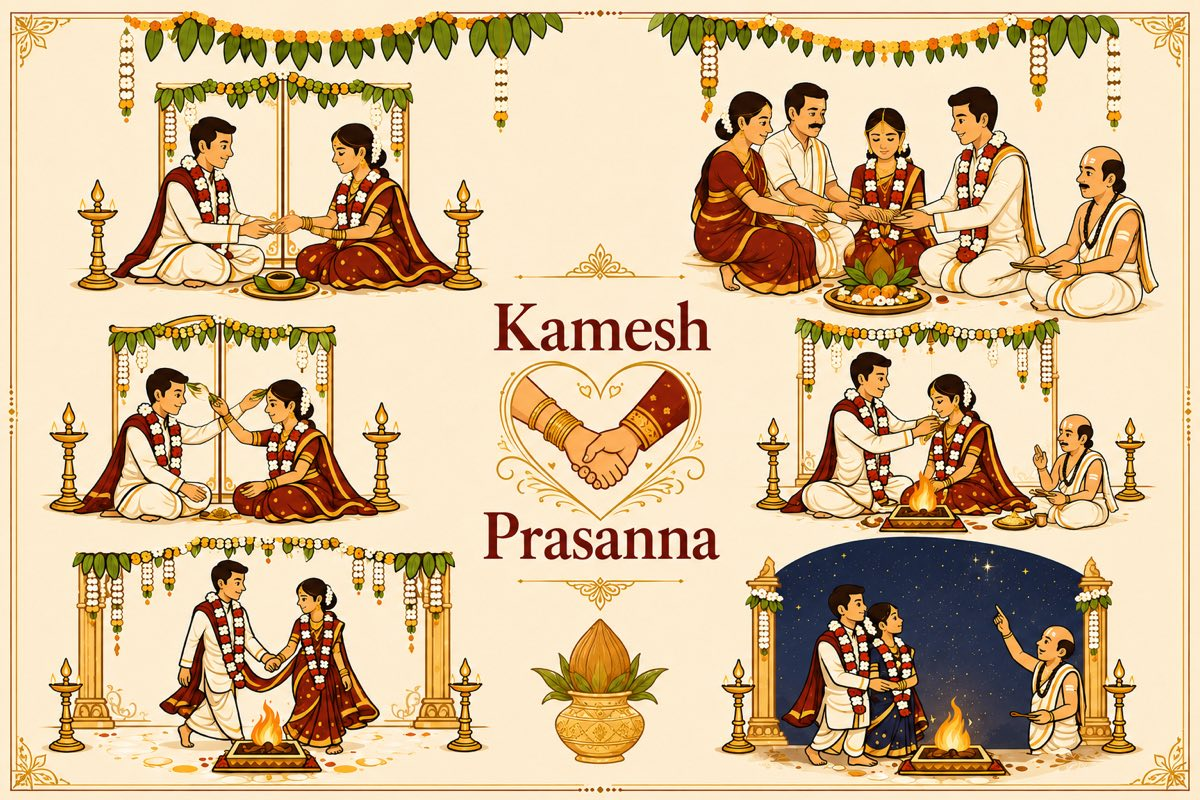
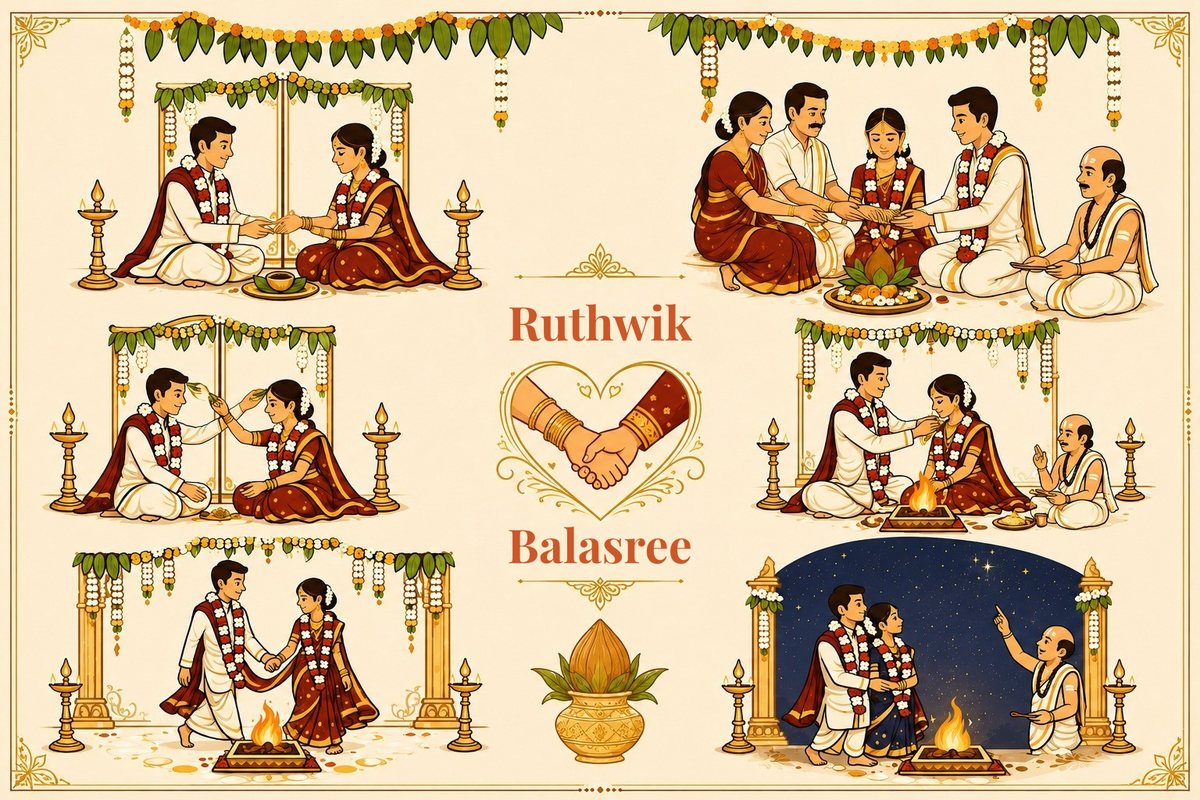
Update site URLs to point to the new Vercel deployment
- Changed siteUrl in data.js and data.json to reflect the new Vercel URL.
- Updated canonical links and Open Graph/Twitter image URLs in index.html to the new domain.
- Modified sitemap and robots.txt to use the new site URL for better SEO and indexing.
- Replaced wedding image with an updated version in og-wedding.jpg.

diff --git a/index.html b/index.html
@@ -12,7 +12,7 @@
   <meta name="apple-mobile-web-app-title" content="R♥B">
   <meta name="application-name" content="R♥B">
 
-  <link rel="canonical" id="canonicalUrl" href="https://kwedsp.rambuilds.in/i/w7k2m9">
+  <link rel="canonical" id="canonicalUrl" href="https://kwedsp.vercel.app/i/w7k2m9">
   <link rel="icon" href="/favicon.svg?v=2" type="image/svg+xml">
   <link rel="icon" href="/favicon-32.png?v=2" type="image/png" sizes="32x32">
   <link rel="apple-touch-icon" href="/apple-touch-icon.png?v=2">
@@ -21,11 +21,11 @@
   <meta property="og:type" content="website">
   <meta property="og:site_name" content="Ruthwik & Balasree Wedding">
   <meta property="og:locale" content="en_IN">
-  <meta property="og:url" content="https://kwedsp.rambuilds.in/i/w7k2m9">
+  <meta property="og:url" content="https://kwedsp.vercel.app/i/w7k2m9">
   <meta property="og:title" content="Ruthwik & Balasree — Wedding & Reception">
   <meta property="og:description" content="18 Dec — wedding at Jaggampeta · 20 Dec evening — post-wedding reception in Eluru (groom's family).">
-  <meta property="og:image" content="https://kwedsp.rambuilds.in/og-wedding.jpg?v=2">
-  <meta property="og:image:secure_url" content="https://kwedsp.rambuilds.in/og-wedding.jpg?v=2">
+  <meta property="og:image" content="https://kwedsp.vercel.app/og-wedding.jpg?v=3">
+  <meta property="og:image:secure_url" content="https://kwedsp.vercel.app/og-wedding.jpg?v=3">
   <meta property="og:image:type" content="image/jpeg">
   <meta property="og:image:alt" content="Ruthwik and Balasree wedding invitation collage">
   <meta property="og:image:width" content="1200">
@@ -35,7 +35,7 @@
   <meta name="twitter:card" content="summary_large_image">
   <meta name="twitter:title" content="Ruthwik & Balasree — Wedding & Reception">
   <meta name="twitter:description" content="18 Dec — wedding at Jaggampeta · 20 Dec evening — post-wedding reception in Eluru (groom's family).">
-  <meta name="twitter:image" content="https://kwedsp.rambuilds.in/og-wedding.jpg?v=2">
+  <meta name="twitter:image" content="https://kwedsp.vercel.app/og-wedding.jpg?v=3">
   <meta name="twitter:image:alt" content="Ruthwik and Balasree wedding invitation collage">
 
   <link rel="stylesheet" href="https://cdn.jsdelivr.net/npm/bootstrap@5.3.0/dist/css/bootstrap.min.css">

diff --git a/data.js b/data.js
@@ -1,5 +1,5 @@
 window.WEDDING_DATA = {
-  "siteUrl": "https://kwedsp.rambuilds.in",
+  "siteUrl": "https://kwedsp.vercel.app",
   "meta": {
     "tabTitle": "R♥B",
     "shareHeadline": "Ruthwik & Balasree — Wedding & Reception",
